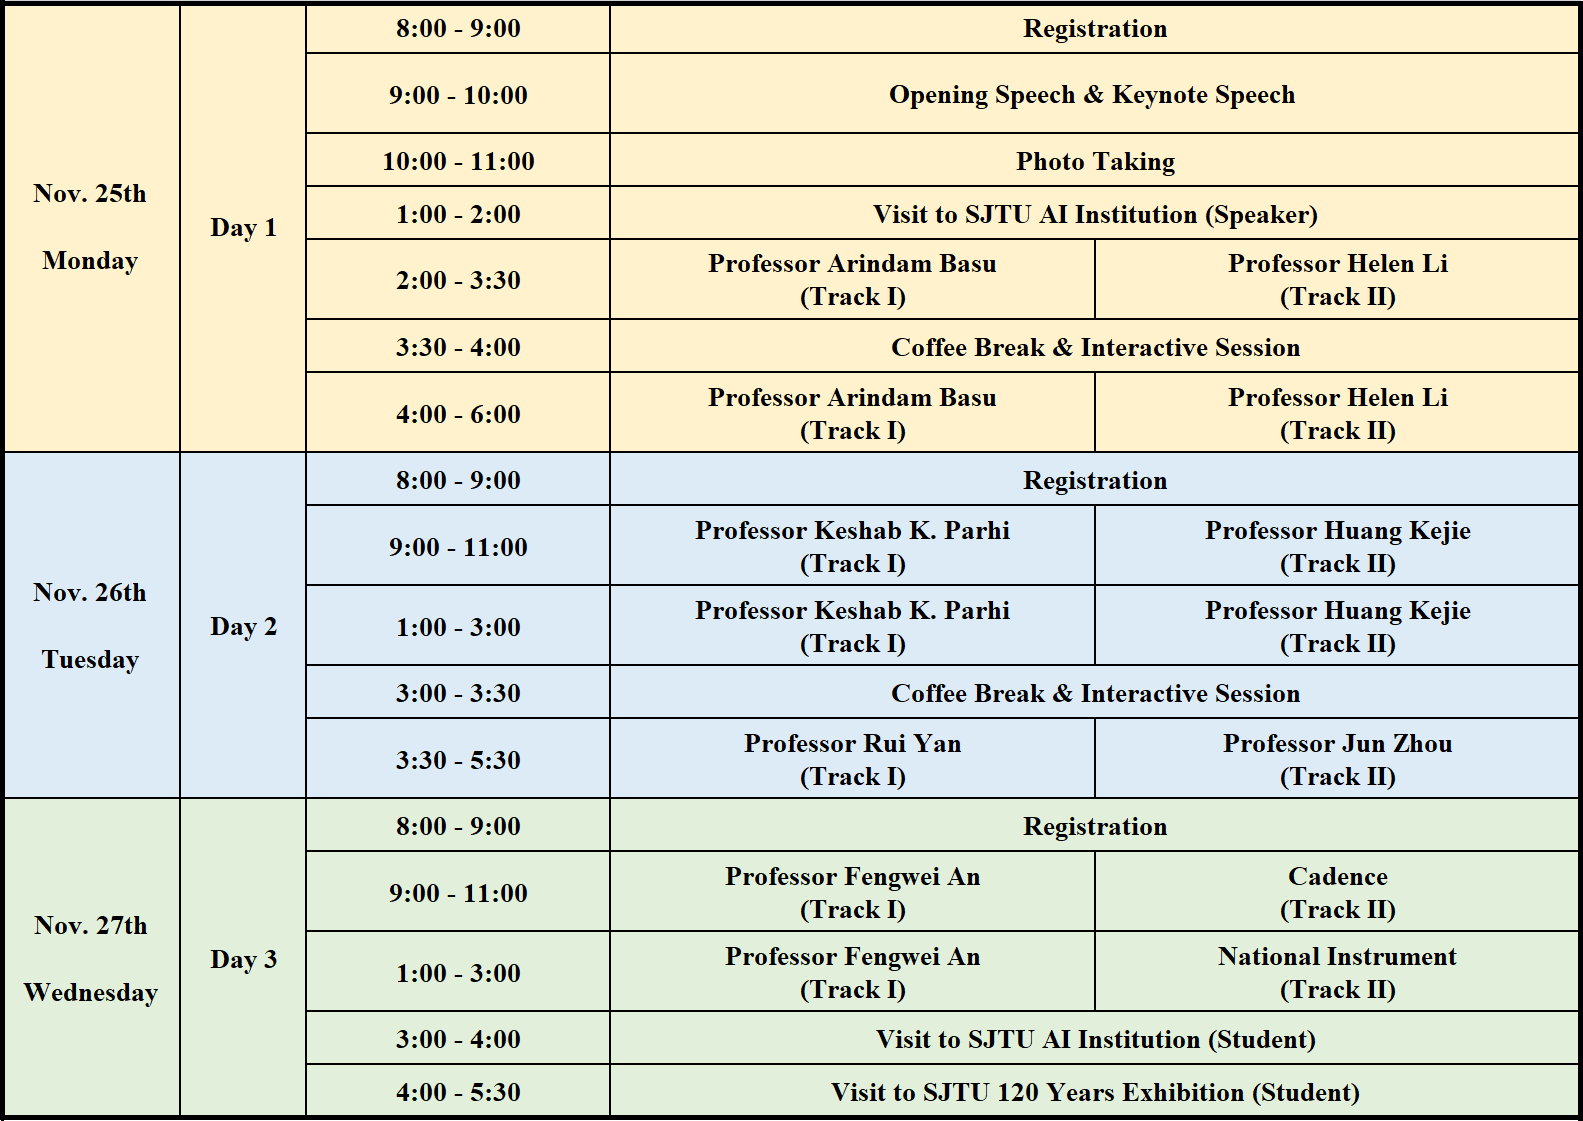
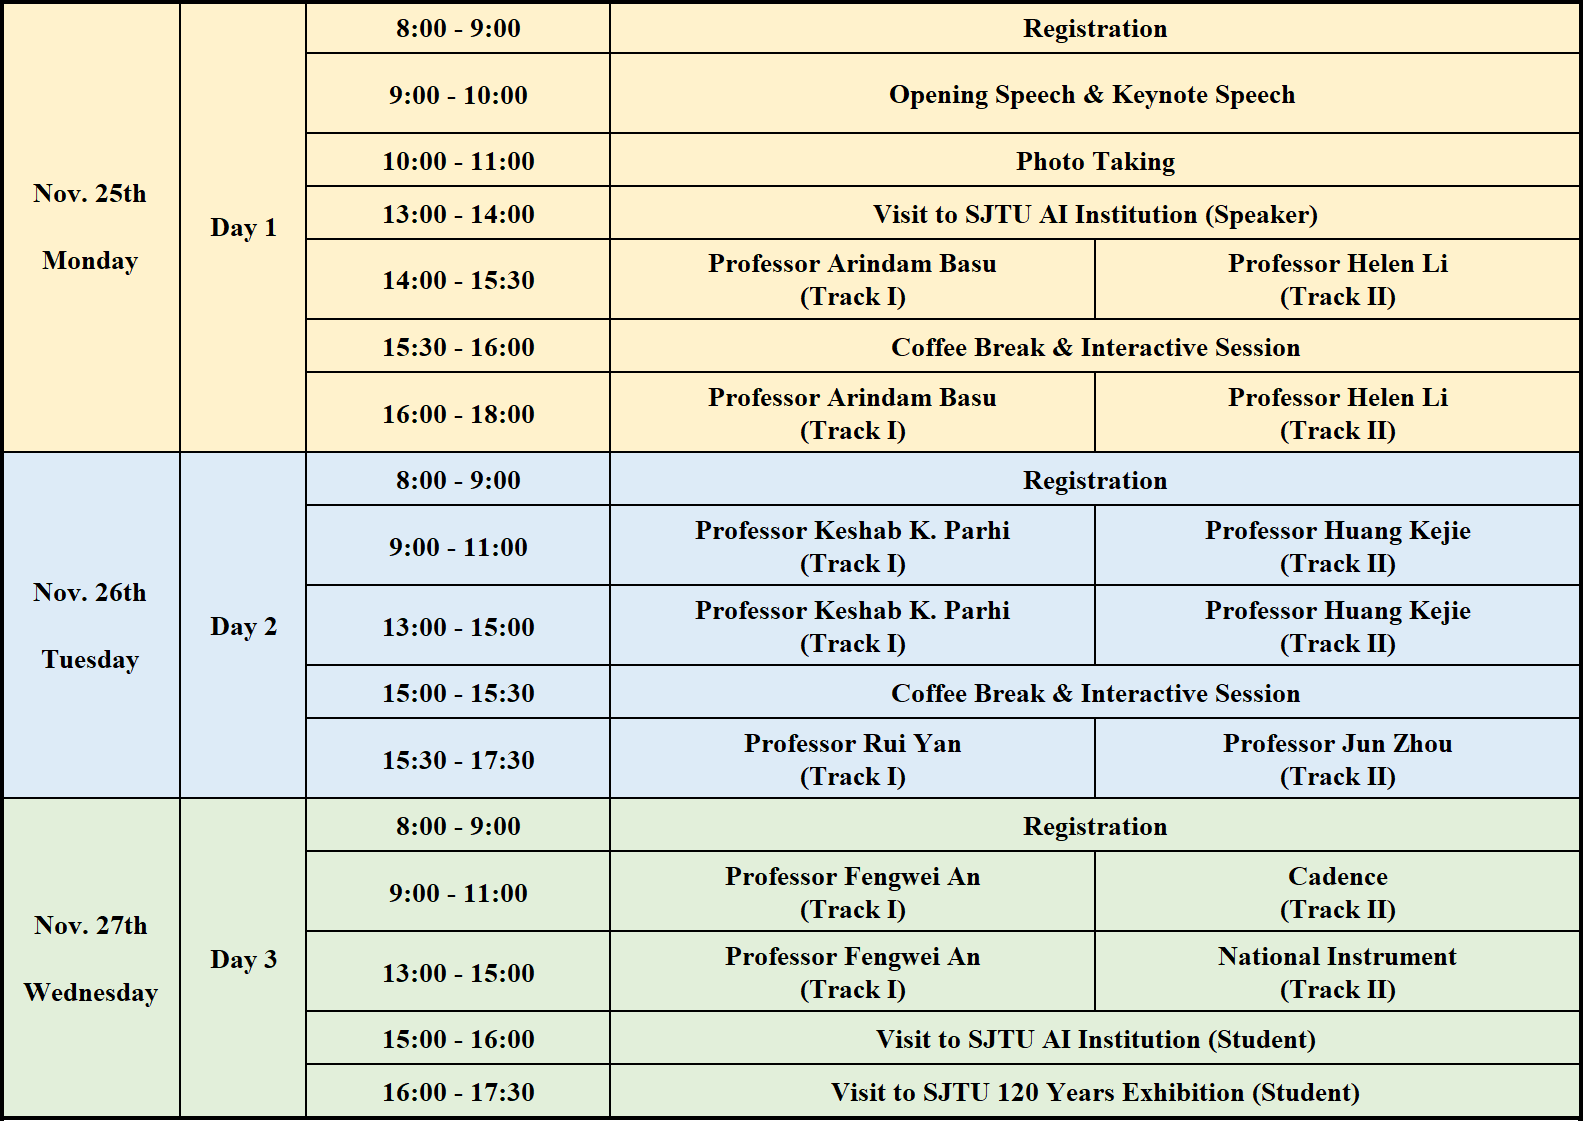
update

diff --git a/seasonal/seasonal-school.html b/seasonal/seasonal-school.html
@@ -29,9 +29,9 @@ As a result, a continuous wave of innovations in circuit architecture, computing
 The seasonal school prepares our members with the technical and practical skills to understand and design a broader range of circuits and systems, in the field of AI, spanning from understanding the design of energy-efficient neuromorphic computing architecture to signal processing/deep learning and system evaluation. Furthermore, this program allows a good balance between academia and industry, and combined with a judicious selection of worldwide distinguished Lecturers. The local industry partners will provide practical skill training to our participants and increase their proficiency before entering the workforce and graduate education.<br/ ><br/ >
 </p>
 <h2>Registration</h2>
-<p>Click <a href="https://www.wjx.top/m/48417611.aspx">here</a> to register</p>
+<p>Click <a href="https://www.wjx.top/m/48417611.aspx"><font size="20" color="red"><i><b><u>here</u></b></i></font></a> or scan the QR code to register</p>
 <table class="imgtable"><tr>
-    <td><img src="wjx.jpg" alt="signup" width="100"/>&nbsp;</td>
+    <td><img src="wjx.jpg" alt="signup" width="150"/>&nbsp;</td>
     <td align="left"></td></tr></table>
 
 <h2>Programs</h2>
@@ -42,37 +42,37 @@ The seasonal school prepares our members with the technical and practical skills
 <table id="Lecturers">
 <tr class="r1"><td class="c1"><img src="basu.jpg" width="150"><br /><b>Prof. Arindam Basu</b><br />Nanyang&nbsp;Technological&nbsp;University<br />Singapore</td><td class="c2">
     <b>Course Title:</b> Low-power Adaptive Neuromorphic Systems: Device, Circuits, Algorithms and Architectures<br /><br />
-    <b>Lecture Time:</b> 2:00PM - 6:00PM, Day1<br /><br />
+    <b>Lecture Time:</b> 14:00 - 18:00, Day1<br /><br />
     <b>Abstract:</b> The recent success of “Deep neural networks” (DNN) has renewed interest in bio-inspired machine learning algorithms. However, most work has focused on designing energy efficient circuits for inference while the learning is relegated to a server working on offline collected data. This method has drawbacks in terms of scalability of IoT as well as data non-stationarity in biomedical devices (both wearable or implantable). Hence, this tutorial describes in detail strategies to design adaptive neuromorphic systems that learn from data in an online, unsupervised or semi-supervised fashion. To reduce power dissipation and hardware resource usage, cross-layer innovations spanning novel devices (e.g. floating-gate, memristor etc), circuits (switched capacitor synapse, transposable SRAM synapse, bi-stable synapse, neuron and driver circuits etc), algorithms (Spike time dependent plasticity, Spike Time and Rate based plasticity, Least mean square, Backpropagation and variants like feedback alignment etc) and architectures (crossbar, island style etc) will be discussed. Finally, we will present some case studies of usage of adaptive neuromorphic systems in brain-machine interfaces, robotics and the internet of things.<br /><br />
     <b>Biography:</b> Arindam Basu received the B.Tech. and the M.Tech. degrees in electronics and electrical communication engineering from IIT Kharagpur in 2005,and the MS degree in mathematics and the Ph.D. degree in electrical engineering from the Georgia Institute of Technology, Atlanta, in 2009 and 2010, respectively. He joined Nanyang Technological University, Singapore in 2010, where he currently holds a tenured Associate Professor position. His research interests include bio-inspired neuromorphic circuits, non-linear dynamics in neural systems, low-power analog IC design, and programmable circuits and devices. <br /> Dr. Basu received the Prime Minister of India Gold Medal in 2005 from IIT Kharagpur. He was a Distinguished Lecturer of the IEEE Circuits and Systems Society for the 2016–2017 term. He received the Best Student Paper Award from the Ultrasonics symposium in 2006, the best live demonstration at ISCAS 2010 and a finalist position in the best student paper contest at ISCAS 2008. He also received the MIT Technology Reviews inaugural TR35@Singapore Award in 2012 for being among the top 12 innovators under the age of 35 in Southeast Asia, Australia, and New Zealand. He has served as Guest Editor in several IEEE journals and is currently an Associate Editor of the IEEE Sensors Journal, the IEEE Transactions on Biomedical Circuits and Systems, and the Frontiers in Neuroscience.</td></tr>
 <tr class="r2"><td class="c1"><img src="helen.jpg" width="150"><br /><b>Prof. Helen Li</b><br />Duke&nbsp;University<br />USA</td><td class="c2">
     <b>Course Title:</b> Brain Inspired Computing: The Extraordinary Voyages in Known and Unknown Worlds<br /><br />
-    <b>Lecture Time:</b> 2:00PM - 6:00PM, Day1<br /><br />
+    <b>Lecture Time:</b> 14:00 - 18:00, Day1<br /><br />
     <b>Abstract:</b> Human brain is the most sophisticated organ that nature ever builds. Building a machine that can function like a human brain, indubitably, is the ultimate dream of a computer architect. Although we have not yet fully understood the working mechanism of human brains, the part that we have learned in past seventy years already guided us to many remarkable successes in computing applications, e.g., artificial neural network and machine learning. Inspired by the working mechanism of human brain, neuromorphic system naturally possesses a massively parallel architecture with closely coupled memory, offering a great opportunity to break the "memory wall" in von Neumann architecture. The talk will start with a background introduction of neuromorphic computing, followed by examples of hardware acceleration schemes of learning and neural network algorithms and memristor-based computing engine. I will also share our prospects on the future technology challenges and advances of neuromorphic computing.<br /><br />
     <b>Biography:</b> Dr. Hai "Helen" Li is Clare Boothe Luce Associate Professor with the Department of Electrical and Computer Engineering at Duke University. She received her B.S and M.S. from Tsinghua University and Ph.D. from Purdue University. At Duke, she co-directs Duke University Center for Computational Evolutionary Intelligence. Her research interests include machine learning acceleration and security, neuromorphic circuit and system for brain-inspired computing, conventional and emerging memory design and architecture, and software and hardware co-design. She received the NSF CAREER Award (2012), the DARPA Young Faculty Award (2013), TUM-IAS Hans Fisher Fellowship from Germany (2017), seven best paper awards and another eight best paper nominations. Dr. Li is a fellow of IEEE and a distinguished member of ACM. For more information, please see her webpage at http://cei.pratt.duke.edu/.</td></tr>
 <tr class="r3"><td class="c1"><img src="HuangKejie.jpg" width="150"><br /><b>Prof. Kejie Huang</b><br />Zhejiang&nbsp;University<br />China</td><td class="c2">
     <b>Course Title:</b> In Resistive Memory Computing for Neural Network Processors<br /><br />
-    <b>Lecture Time:</b> 9:00AM - 11:00AM, 1:00PM - 3:00PM, Day2<br /><br />
+    <b>Lecture Time:</b> 9:00 - 11:00, 13:00 - 15:00, Day2<br /><br />
     <b>Abstract:</b> Memory access has been one of the most critical issues in modern computing systems, especially when they are used for neuromorphic computing. Resistive non-volatile memories have been considered as one of the best candidates to deal with this issue. This topic will introduce the recent progress in resistive non-volatile memory devices and their strength and challenges in the applications of neuromorphic computing. After that, the topic will cover architecture and circuit design for both spiking neural networks and convolutional neural networks using resistive non-volatile memories. <br /><br />
     <b>Biography:</b> Kejie Huang received his B.Sc degree and M.Eng degree from the College of Information Science and Electronic Engineering, Zhejiang University, Hangzhou, China, in 2003 and 2006, respectively, and the Ph.D degree from the Department of Electrical Engineering, National University of Singapore, Singapore, in 2014. He was working in Samsung Semiconductor, GalaxyCore, Xilinx Singpaore, A*STAR and SUTD from 2006 to 2016. Since Oct 2016, he has been a Principal Investigator with the College of Information Science and Electronic Engineering, Zhejiang University. He has authored or co-authored more than 30 scientific papers in international peer-reviewed journals and conference proceedings. He holds four granted international patents and another ten patent applications. He is IEEE Senior Member and the reviewer of many international journals such as IEEE Access, TCAS, TVLSI, EDL.</td></tr>
 <tr class="r4"><td class="c1"><img src="KeshabKParhi.jpg" width="150"><br /><b>Prof. Keshab K. Parhi</b><br />University&nbsp;of&nbsp;Minnesota<br />USA</td><td class="c2">
     <b>Course Title:</b> Brain Inspired Computing: Low-Energy Neuromorphic Computing Accelerator Architectures<br /><br />
-    <b>Lecture Time:</b> 9:00AM - 11:00AM, 1:00PM - 3:00PM, Day2<br /><br />
+    <b>Lecture Time:</b> 9:00 - 11:00, 13:00 - 15:00, Day2<br /><br />
     <b>Abstract:</b>Machine learning and data analytics continue to expand the fourth industrial revolution and affect many aspects of our lives. After a brief review of some deep learning networks, I will talk about different approaches for energy-efficient implementations for deep learning systems. Systolic architectures that exploit locality to reduce memory access will be described. An example is the Google TPU. Energy reduction by sparsity in the form of random sparsity (such as the efficient inference engine) and regular sparsity (such as the PermDNN) will be described. Other approaches include in-memory and near-memory computing, quantization, and tensor decomposition. Energy reduction in backpropagation will then be described for training of deep neural networks.<br /><br />
     <b>Biography:</b> Keshab K. Parhi received the B.Tech. degree from the Indian Institute of Technology (IIT), Kharagpur, in 1982, the M.S.E.E. degree from the University of Pennsylvania, Philadelphia, in 1984, and the Ph.D. degree from the University of California, Berkeley, in 1988. He has been with the University of Minnesota, Minneapolis, since 1988, where he is currently Distinguished McKnight University Professor and Edgar F. Johnson Professor of Electronic Communication in the Department of Electrical and Computer Engineering. He has published 650 papers, is the inventor of 30 patents, and has authored the textbook VLSI Digital Signal Processing Systems (Wiley, 1999) and coedited the reference book Digital Signal Processing for Multimedia Systems (Marcel Dekker, 1999). His current research addresses VLSI architecture design of machine learning systems, hardware security, data-driven neuroscience and molecular/DNA computing.  Dr. Parhi is the recipient of numerous awards including the 2003 IEEE Kiyo Tomiyasu Technical Field Award, the 2017 Mac Van Valkenburg award and the 2012 Charles A. Desoer Technical Achievement award from the IEEE Circuits and Systems Society, the 2004 F. E. Terman award from the American Society of Engineering Education, the 2001 IEEE W. R. G. Baker prize paper award, and a Golden Jubilee medal from the IEEE Circuits and Systems Society in 1999. He served as the Editor-in-Chief of the IEEE Trans. Circuits and Systems, Part-I during 2004 and 2005. He was elected a Fellow of IEEE in 1996 and a Fellow of the American Association for Advancement of Science (AAAS) in 2017. </td></tr>
 <tr class="r5"><td class="c1"><img src="zhoujun.jpg" width="150"><br /><b>Prof. Jun Zhou</b><br />UESTC<br />China </td><td class="c2">
     <b>Course Title:</b> Brain Inspired Computing:  Low Power Smart Sensor Node Processor Design<br /><br />
-    <b>Lecture Time:</b> 3:30PM - 5:30PM, Day2<br /><br />
+    <b>Lecture Time:</b> 15:30 - 17:30, Day2<br /><br />
     <b>Abstract:</b>Smart sensing has been widely adopted in applications including health monitoring, intelligent surveillance and smart robots. There are several common requirements for the smart sensing applications, including intelligence, real-time processing, low power consumption and miniaturization. Among them, the requirements for intelligence, real-time processing and miniaturization pose big challenge on the requirement of low power consumption. This tutorial talks about how to address the abovementioned challenge by combining innovation and optimization through the design hierarchy on algorithm, architecture and circuit levels in the design of smart sensor node processor. <br /><br />
     <b>Biography:</b> Jun Zhou, Professor of National Thousand Youth Talents Scheme, Head of IoT Smart ICs & Systems Group, University of Electronic Science and Technology of China. His major research interests include algorithm & processor co-design for smart sensing applications and low power digital IC design. He has published more than 60 papers in prestigious conferences and journals including ISSCC, JSSC, DAC, TCAS-I, TVLSI, ESSCIRC and A-SSCC. His work has been reported by EE Times and has received the IEEE Circuits & Systems Society Seoul Chapter Award. He is currently an IEEE senior member, the Associate Editor of IEEE Transactions on Very Large Scale Integration System (TVLSI), the Chair of A-SSCC Digital Circuits & Systems Sub-Committee and the Chair of Embedded AI Committee of Sichuan Institute of Electronics. He is also OC/TPC member of a number of prestigious IEEE conferences including ICCD, ISCAS, SOCC and DSP.</td></tr>
 <tr class="r6"><td class="c1"><img src="yanrui.jpg" width="150"><br /><b>Prof. Rui Yan</b><br />Sichuan&nbsp;University<br />China</td><td class="c2">
     <b>Course Title:</b> Neuromorphic Computing Approaches for Learning, Memory and Cognition<br /><br />
-    <b>Lecture Time:</b> 3:30PM - 5:30PM, Day2<br /><br />
+    <b>Lecture Time:</b> 15:30 - 17:30, Day2<br /><br />
     <b>Abstract:</b>Neuromorphic computing is a new theme of computing technology that aims for brain-like computing efficiency and intelligence, through mimicking the computational substrates and information processing found in the brain. This talk will introduce the major concepts and developments in this interdisciplinary area, and discuss the major challenges and problems facing this field. This talk will focus on some recent research progresses, including spike based encoding and learning algorithms, memory and cognitive model to build robotic brain.<br /><br />
     <b>Biography:</b> Rui Yan received the B. Sc. and M. Sc. degrees from Department of Mathematics, Sichuan University, China in 1998 and 2001, respectively, and received the Ph. D. degree from Department of Electrical and Computer Engineering, National University of Singapore, Singapore in 2006. She was a postdoctoral research fellow in the University of Queensland, Australia, from 2006 to 2008, and a research scientist with the Institute for Infocomm Research, A*STAR from 2009 to 2014. Now she is a professor at Sichuan University, China. Her research interests include neuromorphic computing, robotic cognition, brain-inspired SLAM.</td></tr>
 <tr class="r7"><td class="c1"><img src="anfengwei.jpg" width="150"><br /><b>Prof. Fengwei An</b><br />SUSTech<br />China</td><td class="c2">
     <b>Course Title:</b> Energy-efficient VLSI Design of Image Recognition and Machine Learning Algorithms for Automotive Applications<br /><br />
-    <b>Lecture Time:</b> 9:00AM - 11:00AM, 1:00PM - 3:00PM, Day3<br /><br />
+    <b>Lecture Time:</b> 9:00 - 11:00, 13:00 - 15:00, Day3<br /><br />
     <b>Abstract:</b>Nowadays, many computer-vision and machine-learning applications in portable devices such as robotics, smartphones, and autonomous vehicles are constrained by their real-time performance requirements. Meanwhile, the power consumption is also a critical factor for battery-powered systems. The VLSI design for image recognition and machine learning must take account of the processing speed and energy-efficiency simultaneously. In particular, embedded SRAM (static random-access memory) macros are important power-dissipation sources in image processing algorithms due to the high-capacitance buses and frequent accesses. To avoid the inductive bounce noise on the power supply and ground caused by large in rush/discharge currents in mode transitions of power-gating approach, in this research, a hardware-friendly algorithm with optimized SRAM utilization is developed to image recognition and machine learning algorithms. The prototype chips with energy-efficient VLSI architecture have been silicon-proved in 28/65/180nm CMOS technology with high integration density and memory-utilization efficiency for demonstrating the applicability in portable devices.<br /><br />
     <b>Biography:</b> Fengwei An received the Ph.D. from Hiroshima University, Japan in 2013. He worked with the Graduate School of Engineering, Hiroshima University as an Assistant Professor from 2013 and as an Associate Professor from 2017. Since April 2018, he works with Panasonic Semiconductor Solutions Co., Ltd for DSP design of CIS and Time-of-Flight Cameras. From March 2019, he is an Associate Professor with School of Microelectronics, Southern University of Science and Technology. His research interests include reconfigurable computing, ultra-low power digital circuits, and systems, and embedded system architecture for image recognition and machine learning algorithms.</td></tr>
 </td></tr></table>
@@ -82,7 +82,7 @@ The seasonal school prepares our members with the technical and practical skills
 
 <h2>Organizing Committee</h2>
 <p></p>
-<p><b>Main/Co- Organizer:</b> Associate Professor Yongfu Li & Associate Professor Jiang Li</p>
+<p><b>Main/Co- Organizer:</b> Associate Professor Yongfu Li & Associate Professor Li Jiang</p>
 <p><b>Finance Coordinator:</b> Associate Researcher Jing Jin</p>
 <p><b>Publication Coordinator:</b> Assistant Professor Mingyi Chen</p>
 <p><b>Publicity Coordinator:</b> Assistant Professor Jian Zhao (Chinese) & Assistant Professor Nabil Sabor (English)</p>
